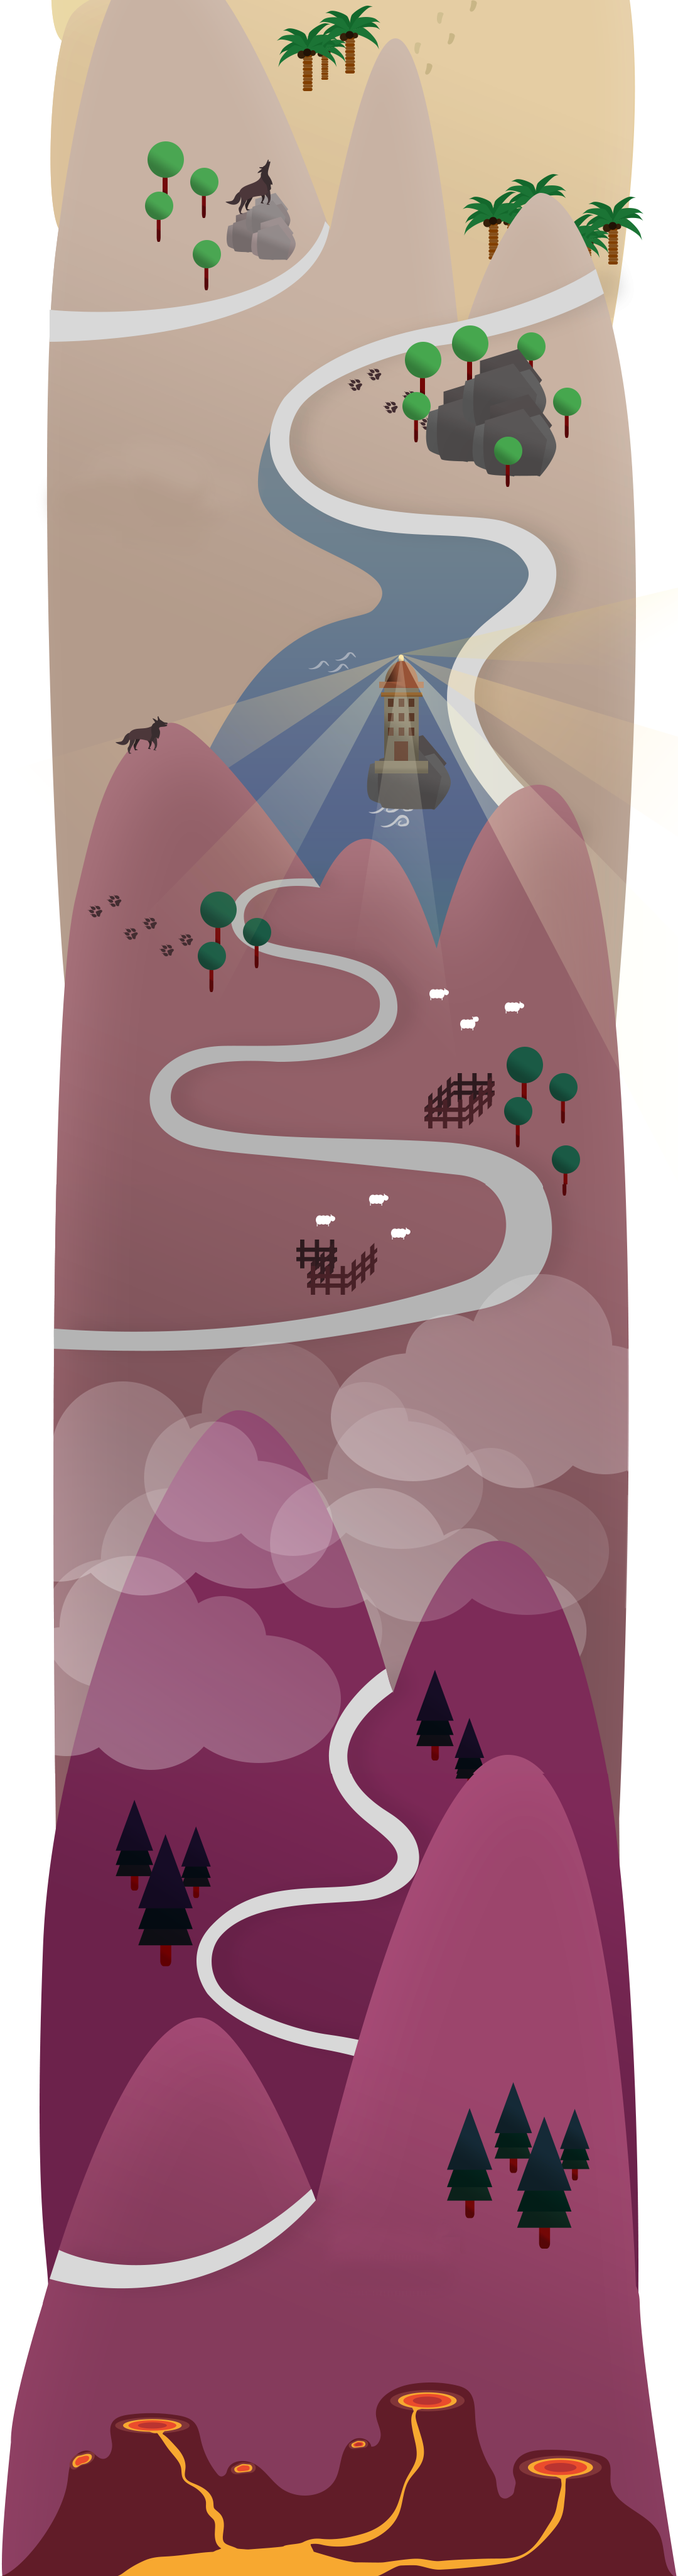
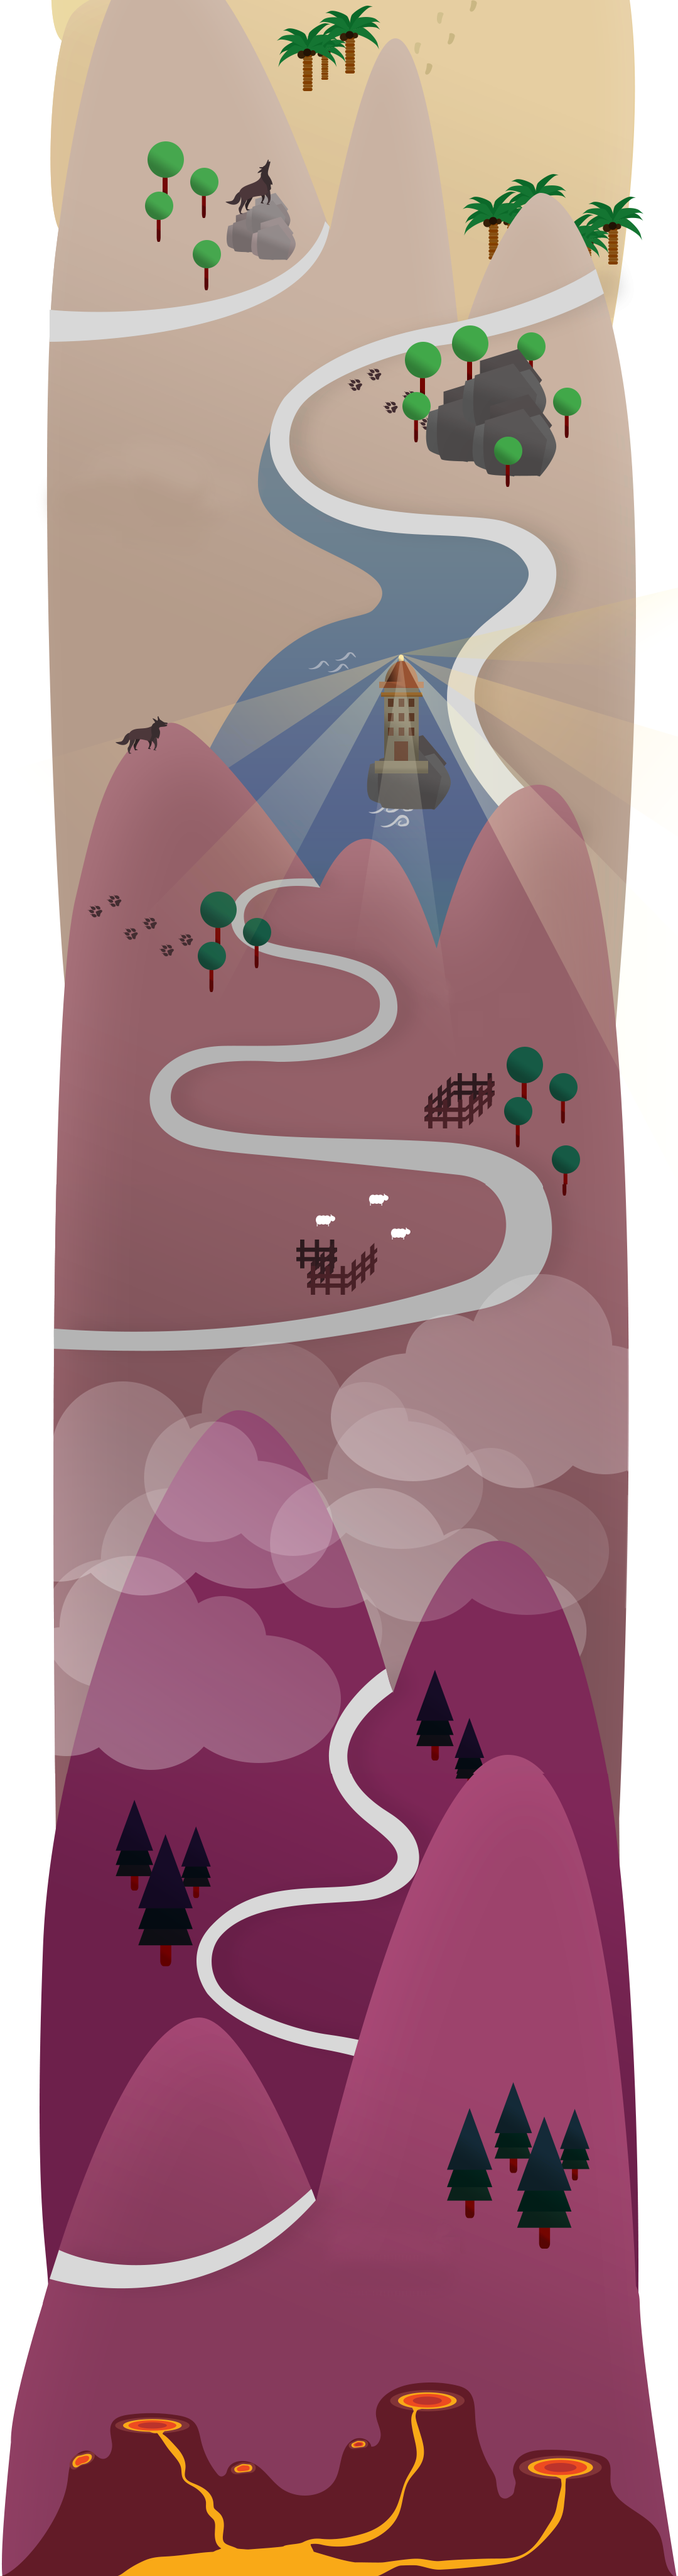
Ajouts de gifs
Ajouts de gifs dans le crepuscule

Changed region(s): [[0.1528, 0.9366, 0.6111, 1.0], [0.7944, 0.9678, 0.825, 0.999], [0.6111, 0.9366, 0.6417, 0.9678]]

diff --git a/css/style.css b/css/style.css
@@ -2753,6 +2753,30 @@ div.tooltip div {
     z-index: 6;
 }
 
+#crepuscule-loup{
+	position: absolute;
+	background: url("../img/crepuscule-loup.gif") no-repeat;
+	background-size: 504px;
+	height: 312px;
+    margin-left: 74px;
+    position: absolute;
+    top: 18489px;
+    width: 504px;
+    z-index: 3;
+}
+
+#crepuscule-mouton{
+	position: absolute;
+	background: url("../img/crepuscule-mouton.gif") no-repeat;
+	background-size: 182px;
+	height: 75px;
+    margin-left: 678px;
+    position: absolute;
+    top: 19909px;
+    width: 182px;
+    z-index: 3;
+}
+
 /** ELEMENTS ENFER **/
 .lave-montagne-01{
 	position: absolute;

diff --git a/index.html b/index.html
@@ -1234,6 +1234,8 @@
         	<div id="automne-tournesol"></div>  
         	<div id="automne-empreinte"></div>   	
 	        <div id="desert-buisson"></div>
+	        <div id="crepuscule-loup"></div>
+	        <div id="crepuscule-mouton"></div>
 	           
 	        <!-- Lave Montagne -->
 	        <div class="lave-montagne-01"></div>
